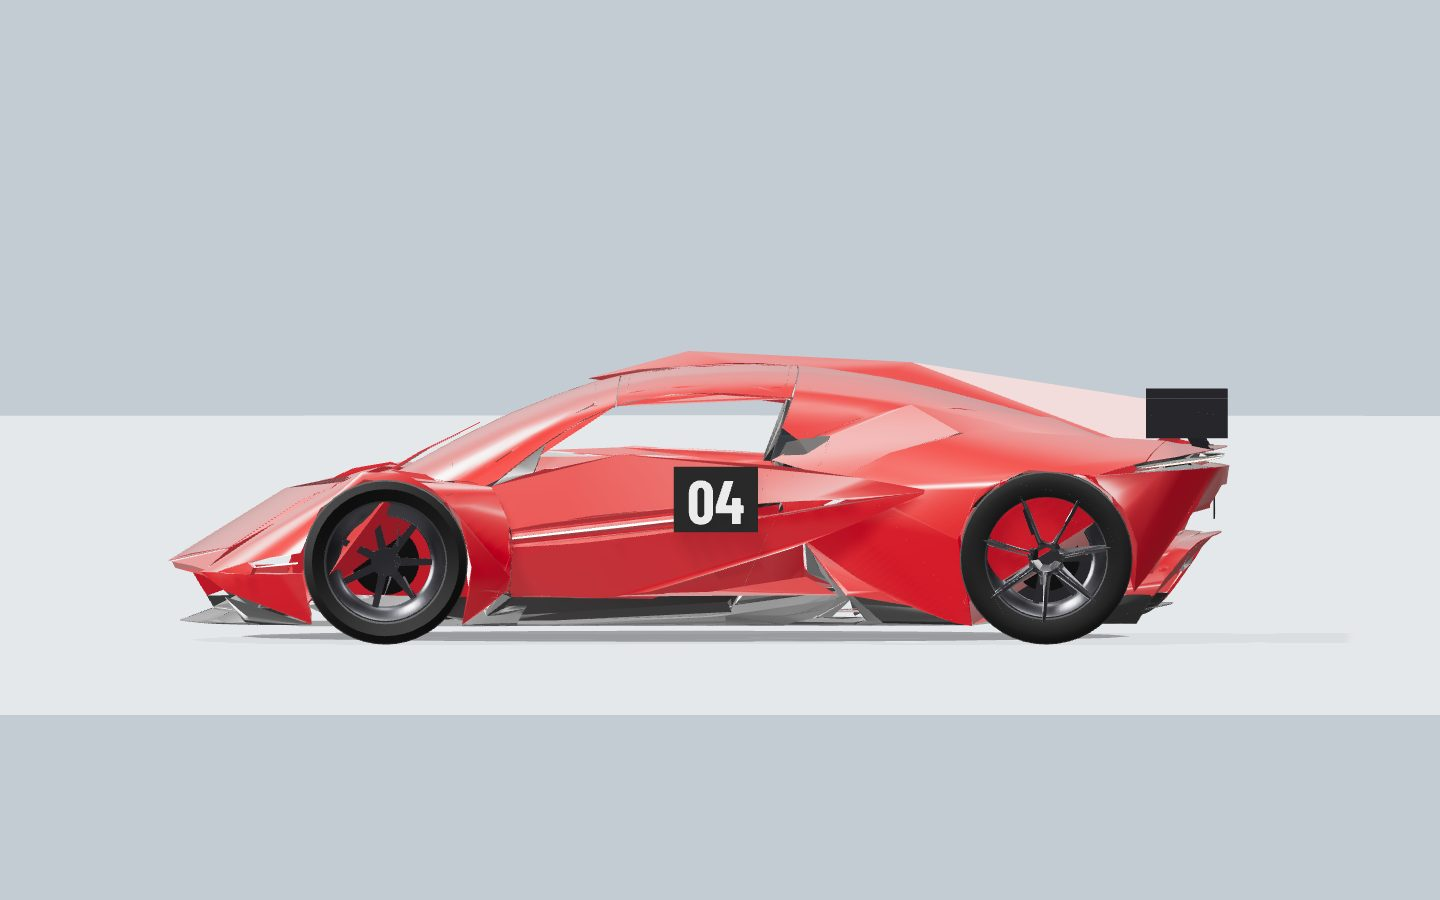
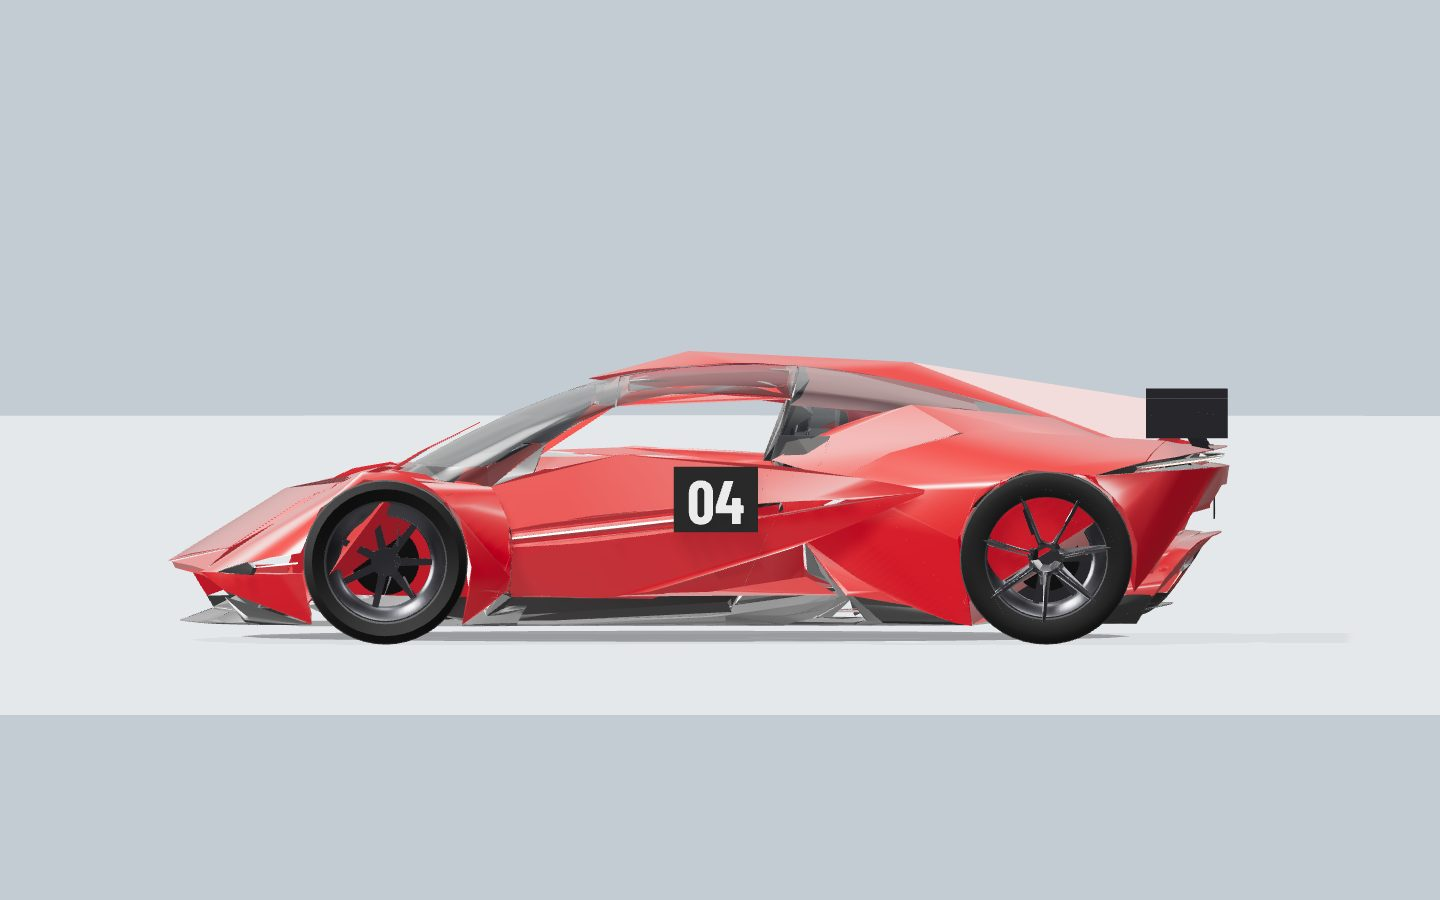
Restore Vanta's windscreen and canopy, and close the lower shards.
The greenhouse stays dark tinted glass. Glass triangles on the sills, splitter and rear arch become opaque carbon, and the grey rear faces are painted the same.

Changed region(s): [[0.2812, 0.4044, 0.7188, 0.56], [0.75, 0.4978, 0.7812, 0.5289], [0.1562, 0.6222, 0.1875, 0.6533]]

diff --git a/src/game/car-assets.ts b/src/game/car-assets.ts
@@ -184,9 +184,12 @@ function fitOf(
   };
 }
 
-/** The GLASS primitive also covers hood, roof, fender and sill panels. Those
- * read as holes because the glass material is alpha-blended. Windows stay
- * glass; the shell panels are copied onto the opaque body paint. */
+/**
+ * The GLASS primitive includes the windscreen and roof canopy, and also a
+ * skin over the hood, sills, splitter and rear arch. Only the greenhouse
+ * stays glass. The rest is copied onto an opaque shell: red above the belt,
+ * dark carbon below it. Grey rear faces on the body are carbon too.
+ */
 function sealVantaShell(root: THREE.Object3D): void {
   let body: THREE.Mesh | undefined;
   let glass: THREE.Mesh | undefined;
@@ -197,51 +200,55 @@ function sealVantaShell(root: THREE.Object3D): void {
     if (material?.name === "BODY" && !body) body = mesh;
     if (material?.name === "GLASS" && !glass) glass = mesh;
   });
+  if (body) paintVantaCarbon(body);
   const index = glass?.geometry.getIndex();
   const position = glass?.geometry.getAttribute("position");
-  if (!body || !glass || !index || !position) return;
+  const normalAttr = glass?.geometry.getAttribute("normal");
+  if (!body || !glass || !index || !position || !normalAttr) return;
   root.updateMatrixWorld(true);
   const keep: number[] = [];
-  const move: number[] = [];
+  const shellPos: number[] = [];
+  const shellNor: number[] = [];
+  const shellCol: number[] = [];
   const a = new THREE.Vector3();
   const b = new THREE.Vector3();
   const c = new THREE.Vector3();
+  const edge = new THREE.Vector3();
   const center = new THREE.Vector3();
   const normal = new THREE.Vector3();
+  const local = [new THREE.Vector3(), new THREE.Vector3(), new THREE.Vector3()];
+  const localN = [new THREE.Vector3(), new THREE.Vector3(), new THREE.Vector3()];
   for (let t = 0; t < index.count; t += 3) {
-    const i0 = index.getX(t);
-    const i1 = index.getX(t + 1);
-    const i2 = index.getX(t + 2);
-    a.fromBufferAttribute(position, i0).applyMatrix4(glass.matrixWorld);
-    b.fromBufferAttribute(position, i1).applyMatrix4(glass.matrixWorld);
-    c.fromBufferAttribute(position, i2).applyMatrix4(glass.matrixWorld);
+    const ids = [index.getX(t), index.getX(t + 1), index.getX(t + 2)];
+    for (let k = 0; k < 3; k++) {
+      local[k]!.fromBufferAttribute(position, ids[k]!);
+      localN[k]!.fromBufferAttribute(normalAttr, ids[k]!);
+    }
+    a.copy(local[0]!).applyMatrix4(glass.matrixWorld);
+    b.copy(local[1]!).applyMatrix4(glass.matrixWorld);
+    c.copy(local[2]!).applyMatrix4(glass.matrixWorld);
     center.copy(a).add(b).add(c).multiplyScalar(1 / 3);
-    normal.subVectors(b, a).cross(c.sub(a)).normalize();
-    const window =
-      Math.abs(normal.y) < 0.55 &&
-      center.y > 0.52 &&
-      center.y < 1.2 &&
-      center.z > -0.35 &&
-      center.z < 1.7 &&
-      Math.abs(center.x) < 0.9;
-    (window ? keep : move).push(i0, i1, i2);
+    edge.subVectors(c, a);
+    normal.subVectors(b, a).cross(edge).normalize();
+    if (isVantaWindow(center, normal)) {
+      keep.push(ids[0]!, ids[1]!, ids[2]!);
+      continue;
+    }
+    const carbon = center.y < 0.48 || center.z < -1.15;
+    const cr = carbon ? 0.02 : 0.42;
+    const cg = carbon ? 0.02 : 0.012;
+    const cb = carbon ? 0.02 : 0.016;
+    for (let k = 0; k < 3; k++) {
+      shellPos.push(local[k]!.x, local[k]!.y, local[k]!.z);
+      shellNor.push(localN[k]!.x, localN[k]!.y, localN[k]!.z);
+      shellCol.push(cr, cg, cb);
+    }
   }
-  if (move.length === 0) return;
+  if (shellPos.length === 0) return;
   const shell = new THREE.BufferGeometry();
-  shell.setAttribute("position", position);
-  const normalAttr = glass.geometry.getAttribute("normal");
-  if (normalAttr) shell.setAttribute("normal", normalAttr);
-  const color = new Float32Array(position.count * 3);
-  const red = 0.42;
-  const green = 0.012;
-  const blue = 0.016;
-  for (let i = 0; i < position.count; i++) {
-    color[i * 3] = red;
-    color[i * 3 + 1] = green;
-    color[i * 3 + 2] = blue;
-  }
-  shell.setAttribute("color", new THREE.BufferAttribute(color, 3));
-  shell.setIndex(move);
+  shell.setAttribute("position", new THREE.Float32BufferAttribute(shellPos, 3));
+  shell.setAttribute("normal", new THREE.Float32BufferAttribute(shellNor, 3));
+  shell.setAttribute("color", new THREE.Float32BufferAttribute(shellCol, 3));
   const shellMesh = new THREE.Mesh(shell, body.material);
   shellMesh.name = "BodyShell";
   shellMesh.position.copy(glass.position);
@@ -250,6 +257,33 @@ function sealVantaShell(root: THREE.Object3D): void {
   glass.parent?.add(shellMesh);
   glass.geometry.setIndex(keep);
   glass.visible = keep.length > 0;
+}
+
+function isVantaWindow(center: THREE.Vector3, normal: THREE.Vector3): boolean {
+  const inCabin = center.z < 1.35 && center.z > -1.2 && Math.abs(center.x) < 0.9;
+  const canopy = inCabin && center.y > 0.78;
+  const windscreen = inCabin && center.y > 0.5 && center.z > 0.05 && normal.z > 0.18 && normal.y < 0.93;
+  const sideGlass = inCabin && center.y > 0.6 && center.y < 1.2 && Math.abs(normal.x) > 0.55;
+  return canopy || windscreen || sideGlass;
+}
+
+function paintVantaCarbon(body: THREE.Mesh): void {
+  const color = body.geometry.getAttribute("color");
+  const position = body.geometry.getAttribute("position");
+  if (!color || !position || color.itemSize < 3) return;
+  body.updateWorldMatrix(true, false);
+  const point = new THREE.Vector3();
+  for (let i = 0; i < color.count; i++) {
+    const r = color.getX(i);
+    const g = color.getY(i);
+    const b = color.getZ(i);
+    const grey = r > 0.4 && g > 0.4 && b > 0.4;
+    if (!grey) continue;
+    point.fromBufferAttribute(position, i).applyMatrix4(body.matrixWorld);
+    if (point.z > -0.6) continue;
+    color.setXYZ(i, 0.02, 0.02, 0.02);
+  }
+  color.needsUpdate = true;
 }
 
 function buildLevel(root: THREE.Object3D, id: Exclude<CarId, "surge">): Level {
@@ -540,14 +574,14 @@ function importedMaterial(
     if (!mat) {
       mat = new THREE.MeshPhysicalMaterial({
         name: "GLASS",
-        color: 0x10161c,
-        roughness: 0.06,
+        color: 0x0c1218,
+        roughness: 0.05,
         metalness: 0.02,
         transparent: true,
-        opacity: 0.78,
-        depthWrite: true,
+        opacity: 0.62,
+        depthWrite: false,
         transmission: 0,
-        side: THREE.FrontSide,
+        side: THREE.DoubleSide,
         envMapIntensity: 0.85,
         clearcoat: 1,
         clearcoatRoughness: 0.05,
